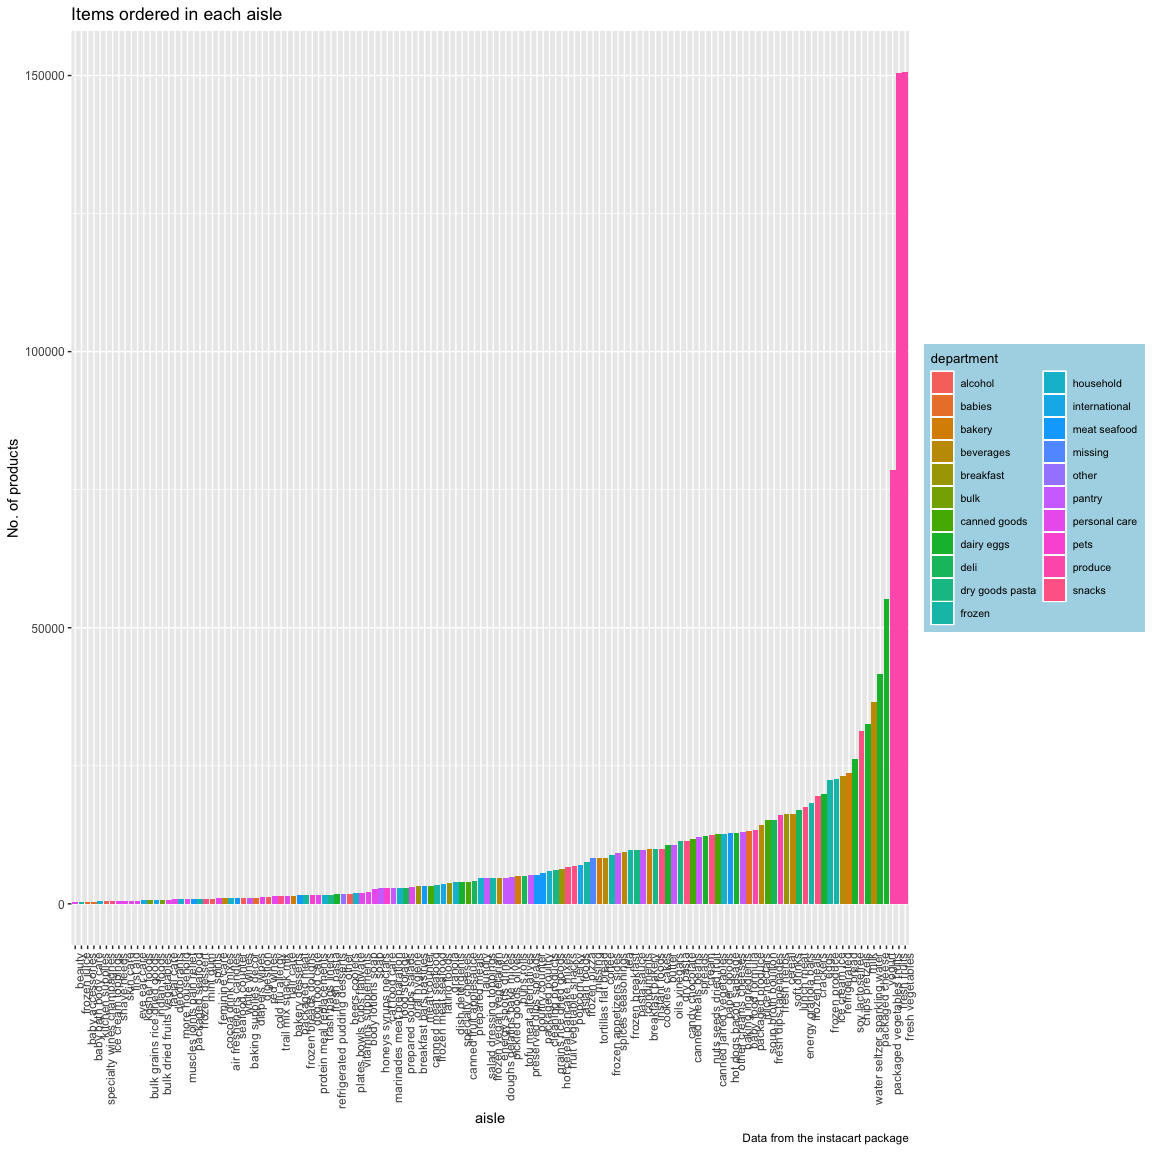
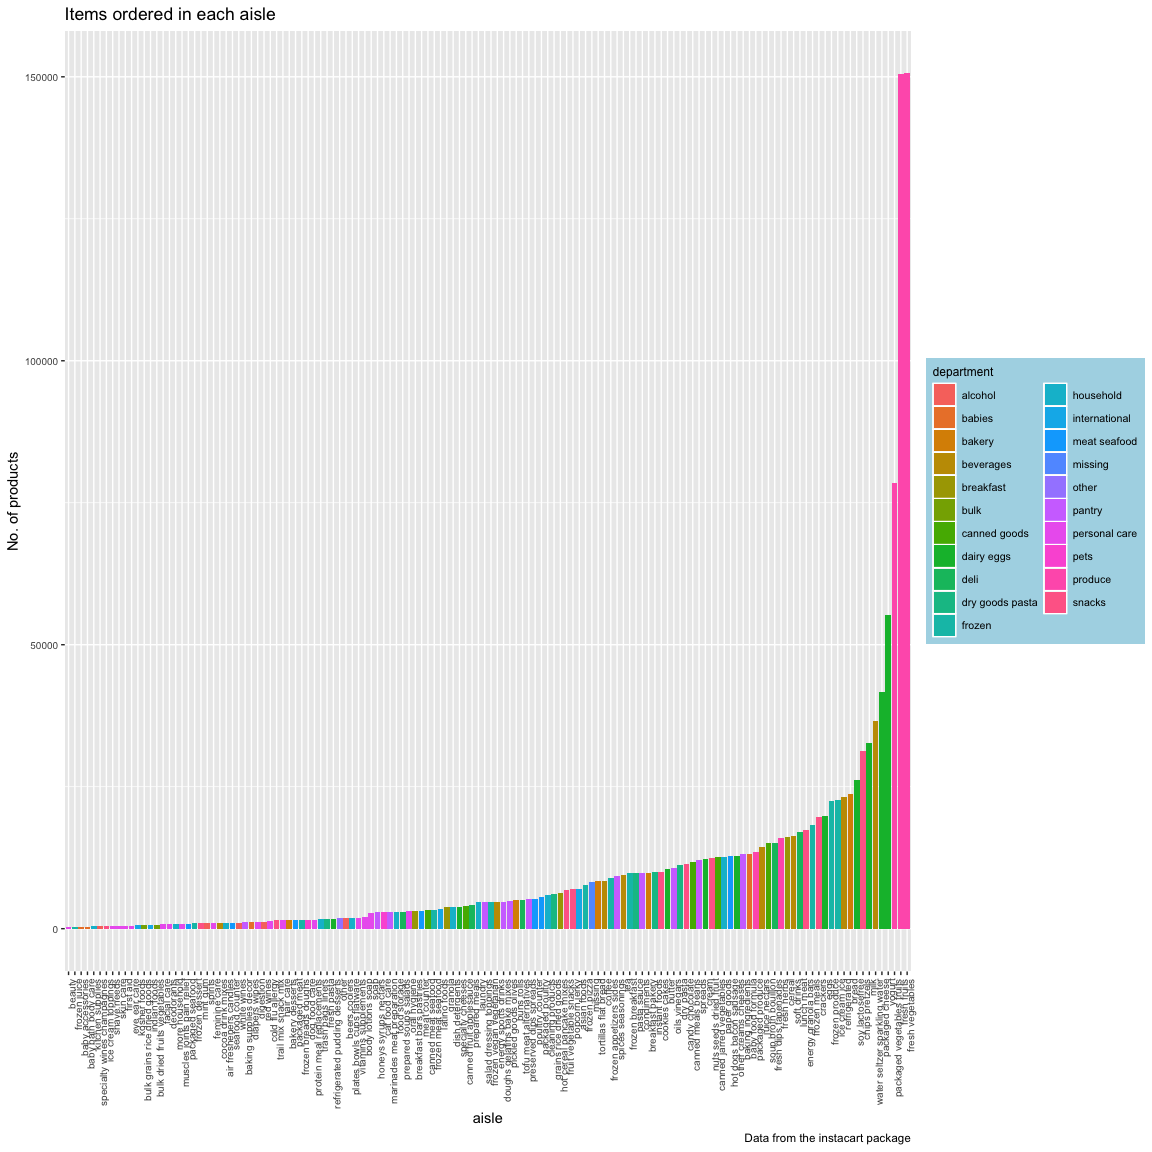
adjust the axis value.

diff --git a/P8105_hw3_sj2921.md b/P8105_hw3_sj2921.md
@@ -247,8 +247,11 @@ user_unique <- instacart %>%
 
 5.  The one who has the highest purchasing power among users are the two
     **user\_id:149753, user\_id:197541**.Both of them have 80 orders and
-    they have maintained a high reorder rate. The top-3 buyers for
-    placing the most orders are presented as:
+    they have maintained a high reorder rate.
+
+<!-- end list -->
+
+  - The top-3 buyers for placing the most orders are presented as:
 
 <!-- end list -->
 
@@ -384,7 +387,7 @@ The above shows the top 5 aisle in the dataset.
     ggplot(aes(x = reorder(aisle, no_items), y = no_items, fill = department)) + # plot the aisle point graph 
     geom_col() +
     theme(axis.text.x = element_text(angle = 90, hjust = 1),
-        axis.text = element_text(size = 9) ) +
+        axis.text = element_text(size = 7.5) ) +
   labs(
     title = "Items ordered in each aisle",
     x = "aisle",
@@ -392,7 +395,7 @@ The above shows the top 5 aisle in the dataset.
     caption = "Data from the instacart package"
   ) + 
   theme(
-    legend.title = element_text(size = 10), 
+    legend.title = element_text(size = 9), 
     legend.text = element_text(size = 8),
     legend.background = element_rect(fill = "lightblue", 
                                   size = 0.4, linetype = "solid"),
@@ -649,9 +652,10 @@ ggplot(temin_mean, aes(x = year, y = mean_temin )) +
   facet_grid(~ month)
 ```
 
-![](P8105_hw3_sj2921_files/figure-gfm/unnamed-chunk-24-1.png)<!-- --> \*
-The mini temparature graph shows in Janaury the tempature varies more
-than that in July.
+![](P8105_hw3_sj2921_files/figure-gfm/unnamed-chunk-24-1.png)<!-- -->
+
+  - The mini temparature graph shows in Janaury the tempature varies
+    more than that in July.
 
   - The outliers: Also, there are some extreme points which are not
     falling into the overlapping part of the graph. However, there a
@@ -700,7 +704,7 @@ snow_graph <- ny_noaa %>%
           legend.direction = "horizontal")
 
 
-gridExtra::grid.arrange(hex_graph,  snow_graph, heights = c(0.55,  0.45), nrow = 2 )
+gridExtra::grid.arrange(hex_graph,  snow_graph, heights = c(0.5,  0.5), nrow = 2 )
 ```
 
     ## Warning: Removed 1136276 rows containing non-finite values (stat_binhex).
